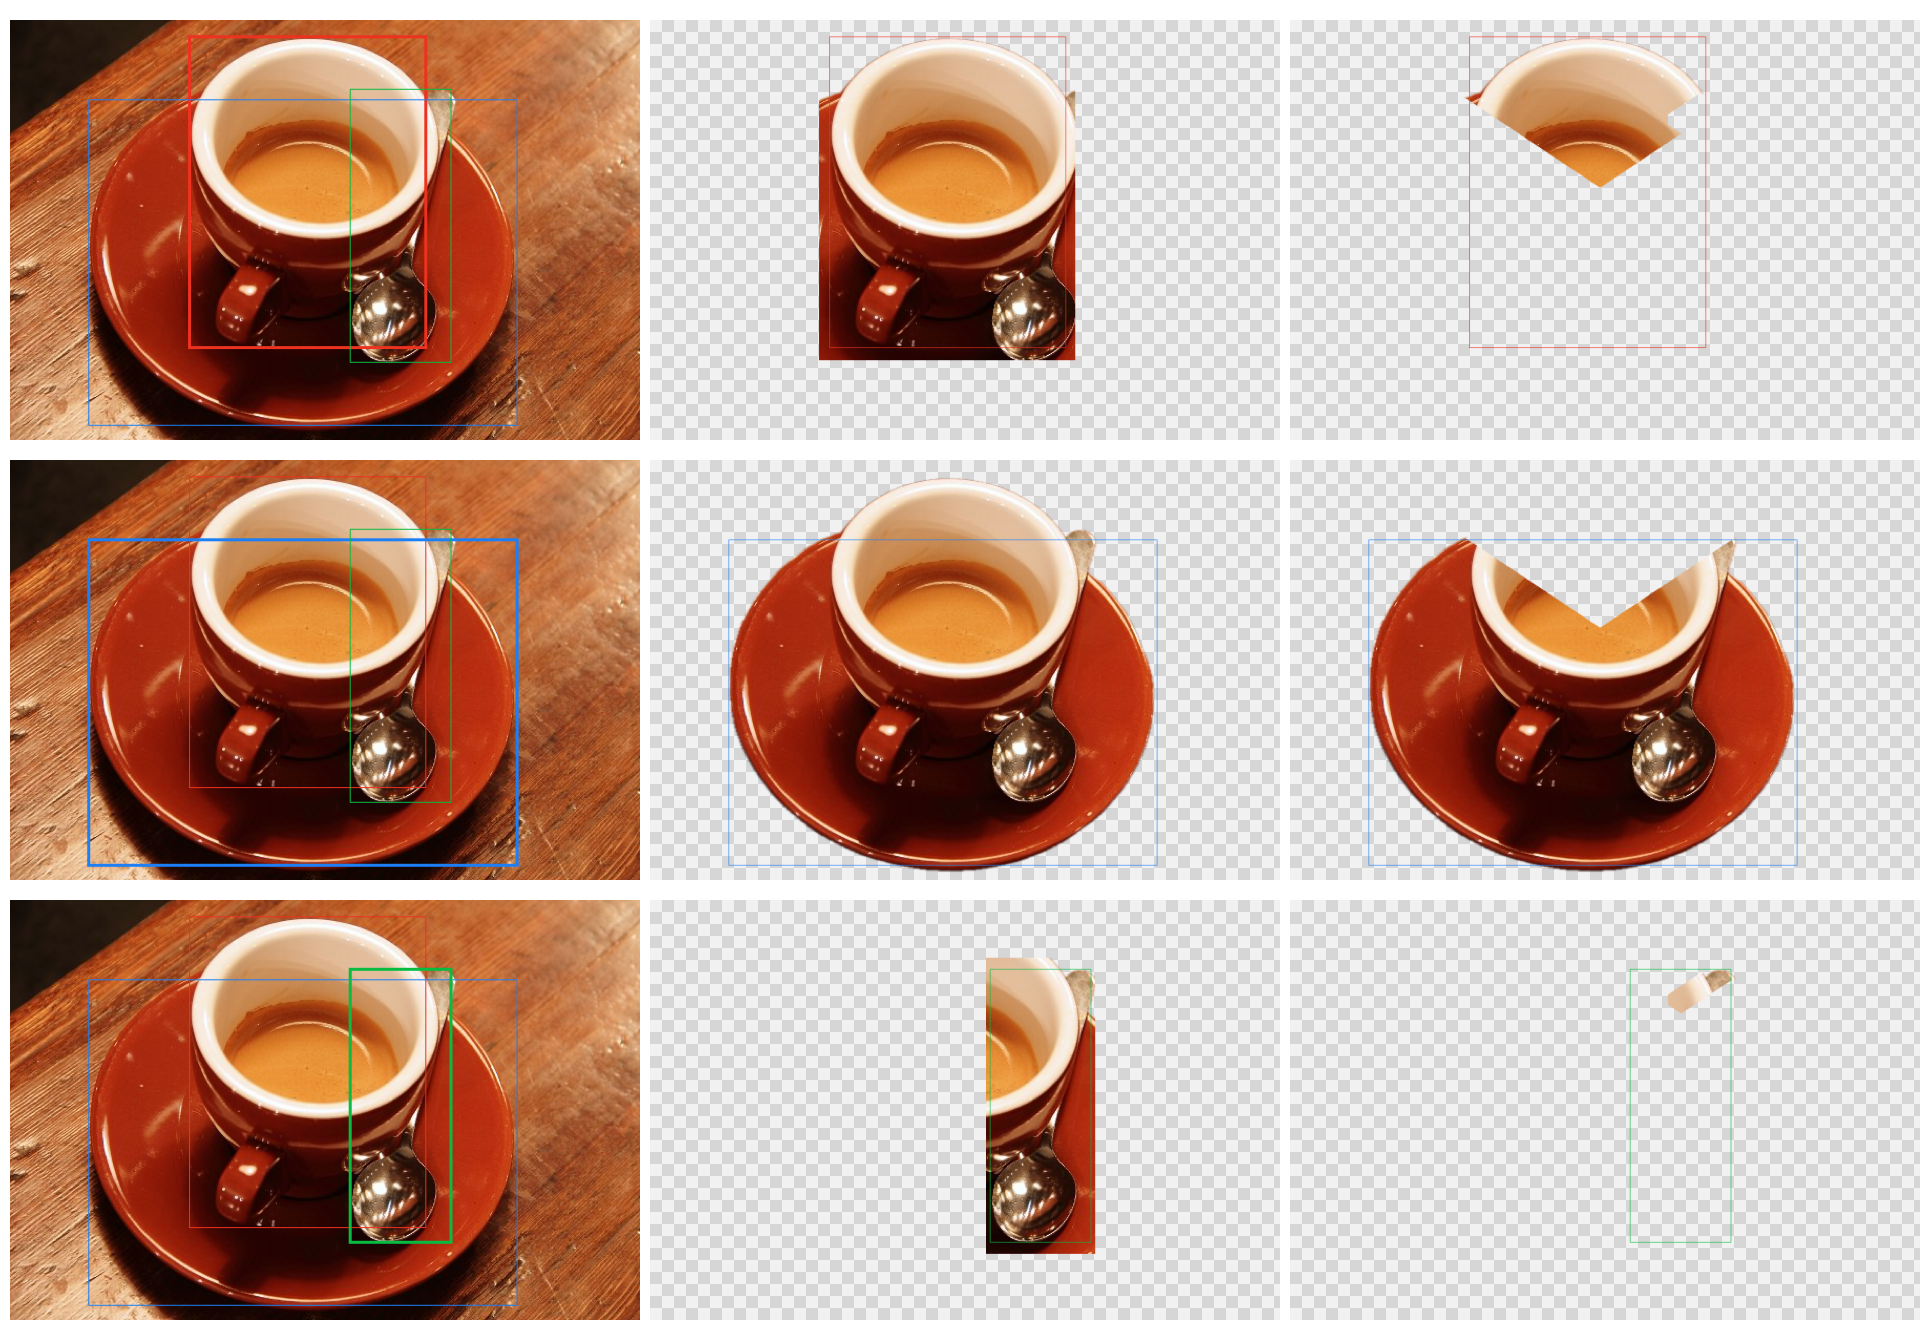
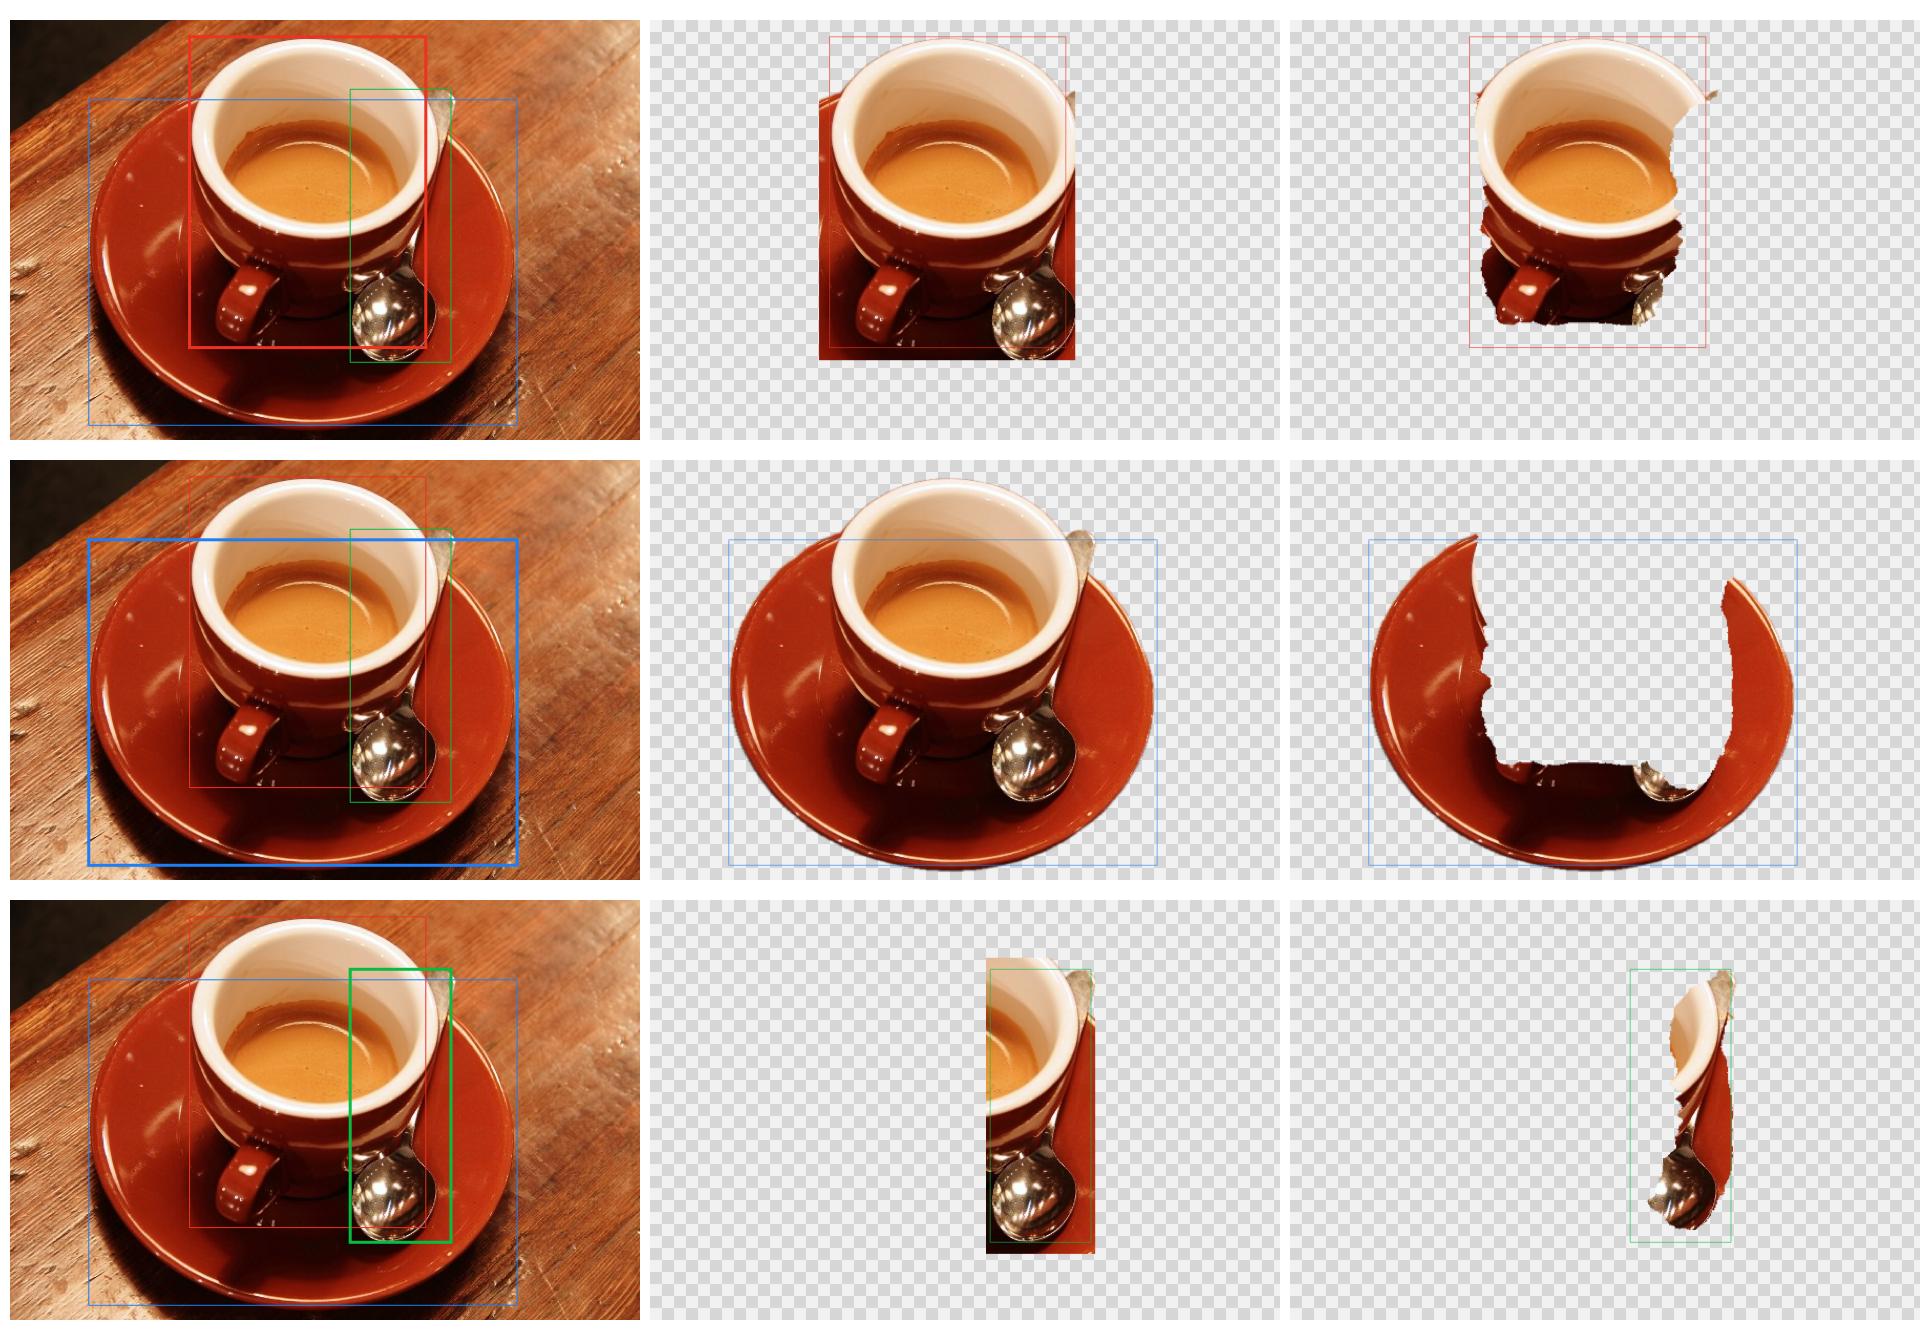
cut-out harness for ccr-89cbeb71-xcif1z @ 62eda63cb5a2d79e0da3d307384e11d55b160855

diff --git a/runs/ccr-89cbeb71-xcif1z-cutout/summary.md b/runs/ccr-89cbeb71-xcif1z-cutout/summary.md
@@ -1,30 +1,30 @@
 | case | thing | before (old plan) | after (now) | covers before → after | straight before → after | rectangle | other thing | result |
 |---|---|---|---|---|---|---|---|---|
-| dorayaki-box-right | 冰淇淋 | CLIP [1] to box (0.18,0.34 0.64×0.34) | part of [1] (40296 px) | 100% → 100% | 0% → 0% | no → no | 0% | ok |
-| dorayaki-box-right | 盒子 | CLIP [1] to box (0.17,0.03 0.65×0.34) | part of [1] (45138 px) | 98% → 98% | 0% → 0% | no → no | 0% | ok |
+| dorayaki-box-right | 冰淇淋 | CLIP [1] to box (0.18,0.34 0.64×0.34) | part of [1] (40540 px) | 100% → 100% | 0% → 0% | no → no | 0% | ok |
+| dorayaki-box-right | 盒子 | CLIP [1] to box (0.17,0.03 0.65×0.34) | part of [1] (44894 px) | 98% → 98% | 28% → 28% | no → no | 0% | ok |
 | dorayaki-box-off | 冰淇淋 | instance 1 | instance 1 + region | 100% → 100% | 0% → 0% | no → no | 0% | ok |
-| dorayaki-box-off-carton | 冰淇淋 | CLIP [1] to box (0.42,0.33 0.42×0.31) | part of [1] (35060 px) | 65% → 89% | 0% → 0% | no → no | 0% | ok |
-| dorayaki-box-off-carton | 盒子 | CLIP [1] to box (0.17,0.03 0.65×0.34) | part of [1] (50374 px) | 98% → 98% | 0% → 0% | no → no | 8% | ok |
+| dorayaki-box-off-carton | 冰淇淋 | CLIP [1] to box (0.42,0.33 0.42×0.31) | part of [1] (40555 px) | 65% → 100% | 97% → 0% | no → no | 0% | ok |
+| dorayaki-box-off-carton | 盒子 | CLIP [1] to box (0.17,0.03 0.65×0.34) | part of [1] (44879 px) | 98% → 98% | 28% → 28% | no → no | 0% | ok |
 | dorayaki-box-30-smaller | 冰淇淋 | instance 1 | instance 1 + region | 100% → 100% | 0% → 0% | no → no | 0% | ok |
 | dorayaki-no-box | 冰淇淋 | instance 1 | instance 1 | 100% → 100% | 0% → 0% | no → no | 0% | ok |
 | dorayaki-point-outside | 冰淇淋 | instance 1 | instance 1 + region | 100% → 100% | 0% → 0% | no → no | 0% | ok |
 | dorayaki-exif-rotated | 冰淇淋 | instance 1 | instance 1 + region | 100% → 100% | 0% → 0% | no → no | 0% | ok |
-| coffee-cup-saucer-spoon | 杯子 | CLIP [1] to box (0.27,0.01 0.41×0.80) | part of [1] (20383 px) | 98% → 52% | 0% → 0% | no → no | 0% | FAIL: covers 52% of the thing (< 85%) |
-| coffee-cup-saucer-spoon | 盤子 | instance 1 | part of [1] (102878 px) | - → - | - → - | - → - | - | ok |
-| coffee-cup-saucer-spoon | 湯匙 | CLIP [1] to box (0.53,0.14 0.17×0.70) | part of [1] (1343 px) | 100% → 1% | 0% → 0% | no → no | 48% | ok |
-| coffee-cup-box-small | 杯子 | instance 1 | instance 1 + region | 98% → 98% | 0% → 0% | no → no | 0% | ok |
-| chelsea-fills-frame | 貓 | instance 1 | instance 1 | 99% → 99% | 0% → 0% | no → no | 0% | ok |
-| chelsea-box-small | 貓 | instance 1 | instance 1 | 99% → 99% | 0% → 0% | no → no | 0% | ok |
-| astronaut-helmet | 安全帽 | CLIP [1] to box (0.52,0.66 0.48×0.34) | part of [1] (26756 px) | 99% → 84% | 0% → 0% | no → no | 0% | FAIL: covers 84% of the thing (< 85%) |
-| astronaut-helmet | 太空梭 | no mask | no mask | 97% → 0% | 0% → 0% | no → no | 0% | FAIL: covers 0% of the thing (< 85%) |
-| astronaut-helmet | 太空人 | CLIP [1] to box (0.00,0.00 0.75×1.00) | part of [1] (114094 px) | - → - | - → - | - → - | - | ok |
+| coffee-cup-saucer-spoon | 杯子 | CLIP [1] to box (0.27,0.01 0.41×0.80) | part of [1] (52135 px) | 98% → 95% | 9% → 92% | no → no | 1% | FAIL: a straight cut through the thing along 92% of a line |
+| coffee-cup-saucer-spoon | 盤子 | instance 1 | part of [1] (58792 px) | - → - | - → - | - → - | - | ok |
+| coffee-cup-saucer-spoon | 湯匙 | CLIP [1] to box (0.53,0.14 0.17×0.70) | part of [1] (13677 px) | 100% → 83% | 0% → 41% | no → no | 6% | ok |
+| coffee-cup-box-small | 杯子 | instance 1 | instance 1 + region | 98% → 98% | 9% → 9% | no → no | 0% | ok |
+| chelsea-fills-frame | 貓 | instance 1 | instance 1 | 99% → 99% | 30% → 30% | no → no | 0% | ok |
+| chelsea-box-small | 貓 | instance 1 | instance 1 | 99% → 99% | 30% → 30% | no → no | 0% | ok |
+| astronaut-helmet | 安全帽 | CLIP [1] to box (0.52,0.66 0.48×0.34) | part of [1] (29885 px) | 99% → 94% | 52% → 89% | no → no | 0% | FAIL: a straight cut through the thing along 89% of a line |
+| astronaut-helmet | 太空梭 | no mask | no mask | 97% → 0% | 100% → 0% | no → no | 0% | FAIL: covers 0% of the thing (< 85%) |
+| astronaut-helmet | 太空人 | CLIP [1] to box (0.00,0.00 0.75×1.00) | part of [1] (110965 px) | - → - | - → - | - → - | - | ok |
 | cafe-cup-vase | 咖啡 | instance 1 | instance 1 | 100% → 100% | 0% → 0% | no → no | 0% | ok |
-| cafe-cup-vase | 花瓶 | no mask | no mask | 98% → 0% | 0% → 0% | no → no | 0% | ok |
+| cafe-cup-vase | 花瓶 | no mask | no mask | 98% → 0% | 20% → 0% | no → no | 0% | ok |
 | cafe-cup-vase | 花 | no mask | no mask | - → - | - → - | - → - | - | ok |
-| cat-and-plant | 貓 | instance 1 | instance 1 | 95% → 95% | 0% → 0% | no → no | 0% | ok |
+| cat-and-plant | 貓 | instance 1 | instance 1 | 95% → 95% | 27% → 27% | no → no | 0% | ok |
 | cat-and-plant | 植物 | no mask | no mask | - → - | - → - | - → - | - | ok |
-| boba-portrait | 珍珠奶茶 | instance 1 | instance 1 | 96% → 96% | 0% → 0% | no → no | 0% | ok |
-| glasses-against-bottle | 眼鏡 | CLIP [1] to box (0.16,0.53 0.63×0.30) | part of [1] (7123 px) | 100% → 98% | 0% → 0% | no → no | 26% | FAIL: 26% of it is another named thing |
-| glasses-against-bottle | 水壺 | CLIP [1] to box (0.62,0.09 0.29×0.78) | part of [1] (22037 px) | 100% → 92% | 0% → 0% | no → no | 0% | ok |
+| boba-portrait | 珍珠奶茶 | instance 1 | instance 1 | 96% → 96% | 25% → 25% | no → no | 0% | ok |
+| glasses-against-bottle | 眼鏡 | CLIP [1] to box (0.16,0.53 0.63×0.30) | part of [1] (6650 px) | 100% → 99% | 0% → 0% | no → no | 21% | FAIL: 21% of it is another named thing |
+| glasses-against-bottle | 水壺 | CLIP [1] to box (0.62,0.09 0.29×0.78) | part of [1] (22510 px) | 100% → 94% | 0% → 28% | no → no | 0% | ok |
 | keys-on-remote | 遙控器 | instance 1 | instance 1 | 100% → 100% | 0% → 0% | no → no | 0% | ok |
 | keys-on-remote | 鑰匙 | instance 2 | instance 2 | 100% → 100% | 0% → 0% | no → no | 0% | ok |
